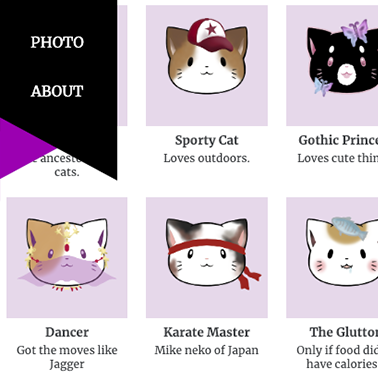
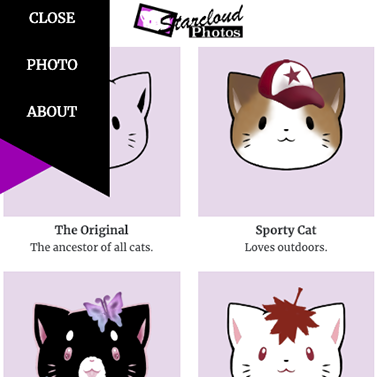
rosaline asset

diff --git a/webpages/ladyRosalineCollection/rosaline.html b/webpages/ladyRosalineCollection/rosaline.html
@@ -26,8 +26,11 @@
       <div id="p0" class="photo p1"></div>
       <div class="pickupHeader bandHeader"></div>
       <div class="pickupHeader">
-        <h1>Lady Rosaline</h1>
-        <p class="subText">Mini Collection</p>
+        <img
+          class="logo"
+          src="../../assets/rosaline/ladyrosaline.png"
+          alt="Lady Rosaline Collection"
+        />
         <nav>
           <a>brand</a>
           <a>design</a>

diff --git a/webpages/ladyRosalineCollection/rosaline.css b/webpages/ladyRosalineCollection/rosaline.css
@@ -80,7 +80,6 @@ button {
 
 nav {
   font-size: 14px;
-  padding: 10px 0;
 }
 .photoContainer {
   height: 100%;
@@ -108,13 +107,16 @@ nav {
   color: rgb(0, 0, 0);
   padding: 20px 0 0 10%;
 }
+.logo {
+  width: 150px;
+}
 .bandHeader {
   background-image: linear-gradient(
     110deg,
     rgba(255, 255, 255, 0.7) 10%,
     rgba(255, 255, 255, 0) 100%
   );
-  height: 250px;
+  height: 220px;
 }
 .pickup {
   position: absolute;
